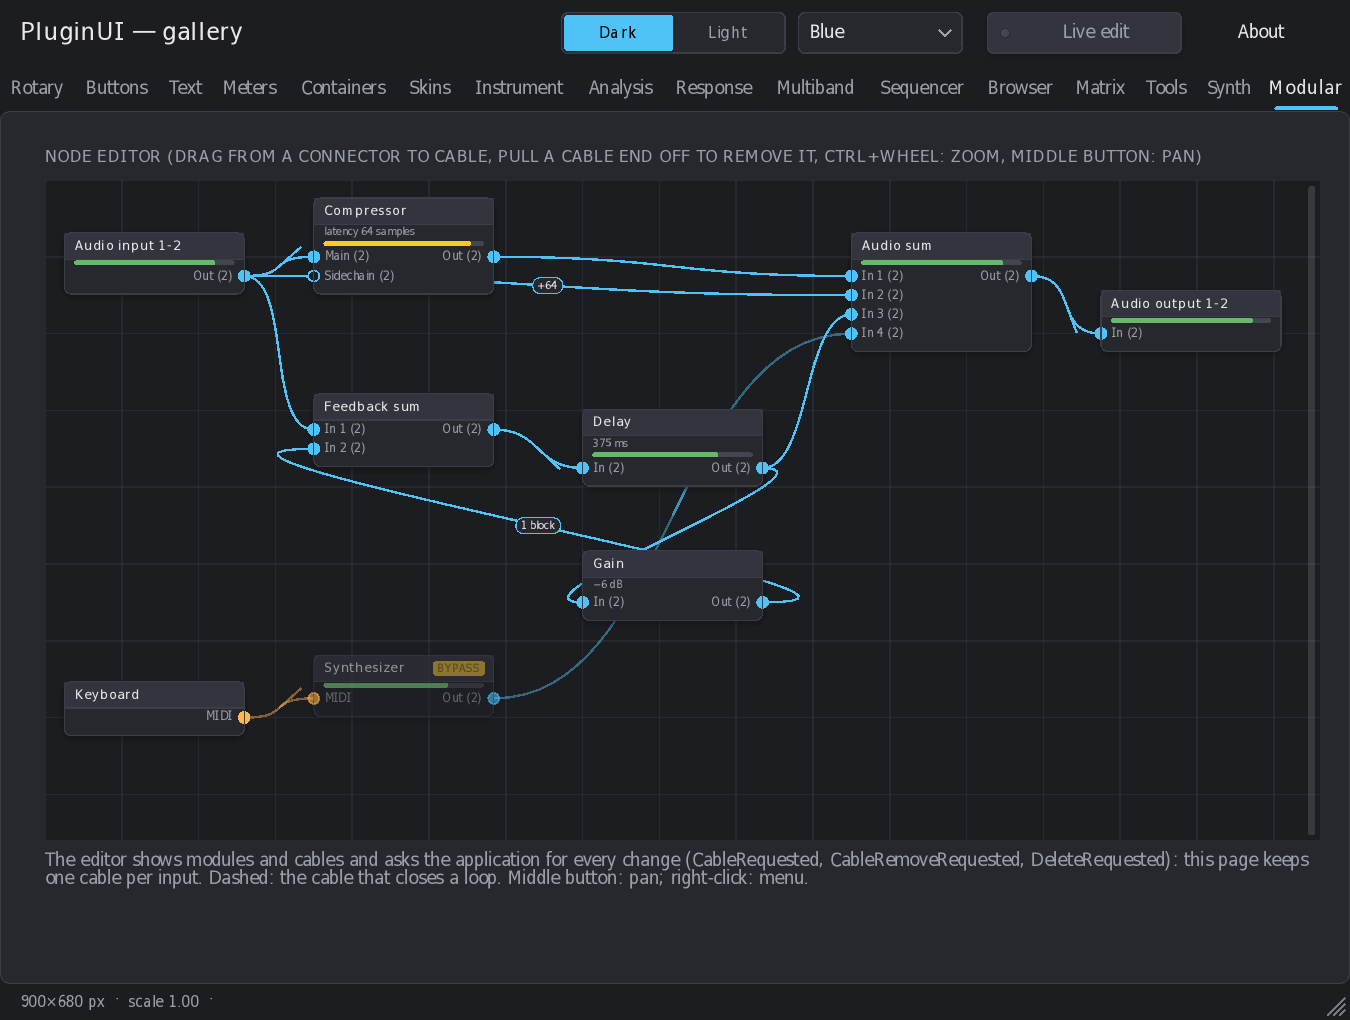
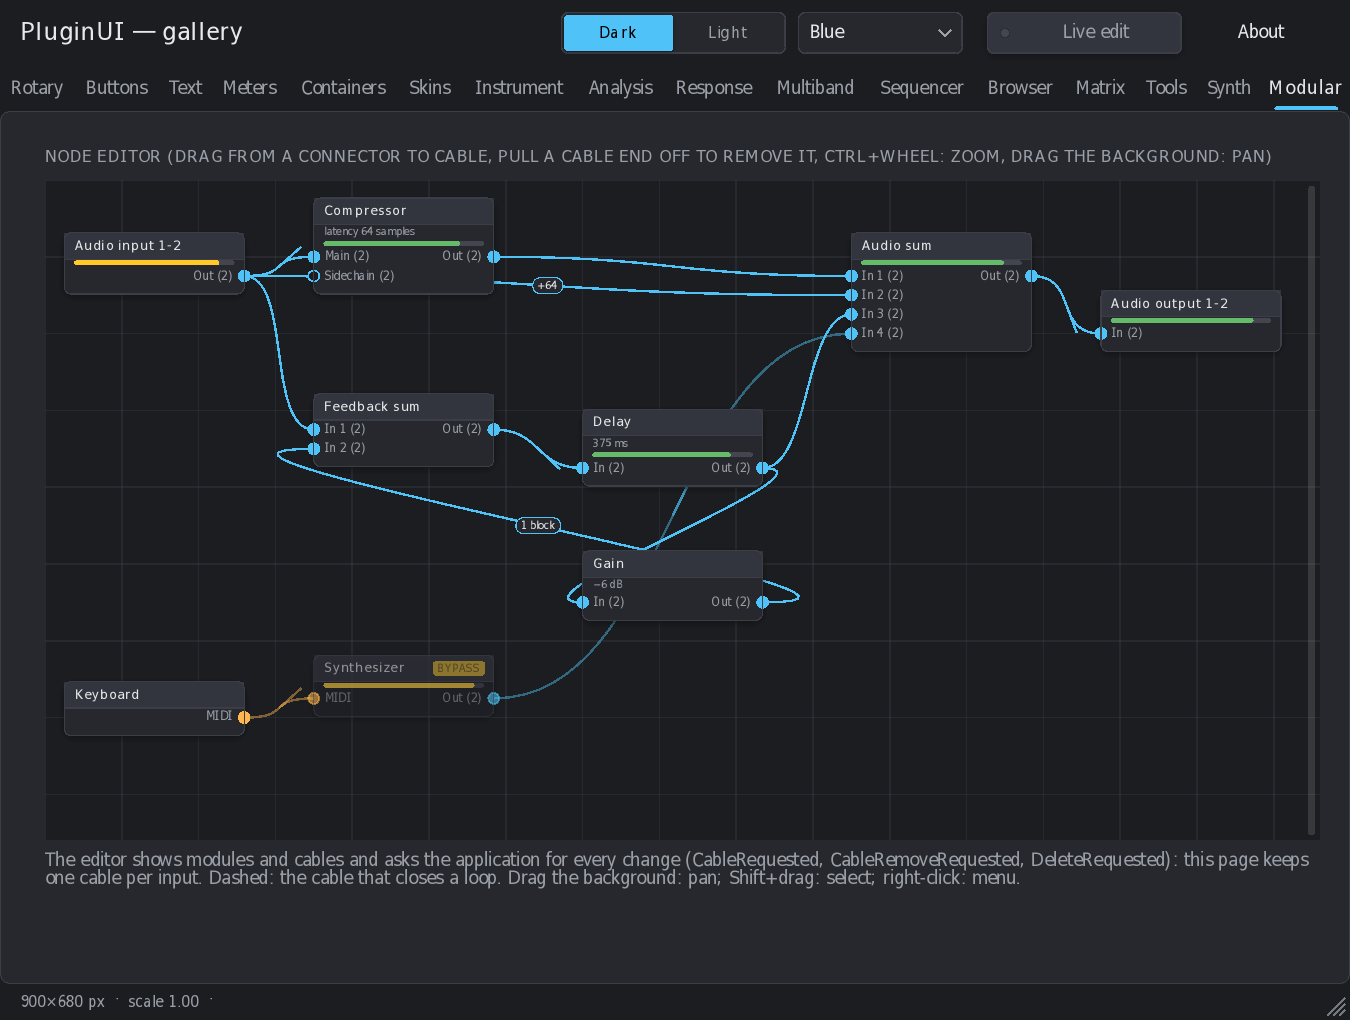
NodeEditor: dragging an empty place always moves the view
Dragging the background with the left button now moves the view whether
the graph fits or not; Shift + drag selects with a rectangle (Ctrl +
drag adds to the selection). Gallery captions, docs and image updated.

Claude-Session: https://claude.ai/code/session_01FvvQE8sPXtbpejVhRebVBN

diff --git a/src/PluginUI/Controls/Misc/NodeEditor.cs b/src/PluginUI/Controls/Misc/NodeEditor.cs
@@ -1,4 +1,4 @@
-// 2026/11/08 13:40:00 UTC - PluginUI
+// 2026/11/08 13:42:00 UTC - PluginUI
 // SPDX-FileCopyrightText: 2026 asm8086
 // SPDX-License-Identifier: MIT
 
@@ -202,9 +202,9 @@ public sealed class NodeEditorMenuEventArgs : EventArgs
 /// update the lists and call <see cref="UIElement.InvalidateVisual"/>.</para>
 /// <para><b>Mouse.</b> Drag a node to move it (its selection with it); drag from a connector to draw a cable to a
 /// compatible connector (they light up); drag the end of a cable away from its input to move or remove it. Click a cable
-/// to select it. Drag on an empty area to select with a rectangle (Ctrl adds); when the graph does not fit (scroll bars
-/// shown), that drag moves the view instead and Shift or Ctrl + drag selects. The wheel scrolls (Shift: sideways),
-/// Ctrl+wheel zooms around the mouse; the middle button (or Alt with the left one) pans. Double-click a node to open it; right-click for its menu.</para>
+/// to select it. Drag on an empty area to move the view; Shift + drag selects with a rectangle (Ctrl + drag adds to the
+/// selection). Scroll bars appear when the graph does not fit. The wheel scrolls (Shift: sideways),
+/// Ctrl+wheel zooms around the mouse; the middle button (or Alt with the left one) also pans. Double-click a node to open it; right-click for its menu.</para>
 /// <para><b>Keyboard.</b> Ctrl+Left / Ctrl+Right select the previous or next node (left to right), Ctrl+A all; arrows
 /// move the selection (Shift = farther); Enter opens the node; Delete removes the selection; Home fits the graph in the
 /// view, + and − zoom; Shift+F10 or the Menu key opens the menu of the selection.</para>
@@ -971,10 +971,9 @@ public class NodeEditor : Control
             _selectedCable = null;
             OnSelectionChanged();
         }
-        UpdateBars();
-        if ((_hbar.IsNeeded || _vbar.IsNeeded) && !e.Shift && !e.Control)
+        if (!e.Shift && !e.Control)
         {
-            // The graph does not fit: dragging an empty place moves the view (Shift or Ctrl + drag selects).
+            // Dragging an empty place moves the view; Shift or Ctrl + drag selects with a rectangle.
             _drag = DragMode.Pan;
             _panOffset = _offset;
             Cursor = StandardCursor.SizeAll;

diff --git a/samples/PluginUI.Gallery/Pages/ModularPage.cs b/samples/PluginUI.Gallery/Pages/ModularPage.cs
@@ -1,4 +1,4 @@
-// 2026/11/08 13:07:00 UTC - PluginUI
+// 2026/11/08 13:42:00 UTC - PluginUI
 // SPDX-FileCopyrightText: 2026 asm8086
 // SPDX-License-Identifier: MIT
 
@@ -10,7 +10,7 @@ internal static class ModularPage
     public static UIElement Build(DemoAudio audio)
     {
         var c = new Canvas();
-        c.Caption(L.T("NODE EDITOR (DRAG FROM A CONNECTOR TO CABLE, PULL A CABLE END OFF TO REMOVE IT, CTRL+WHEEL: ZOOM, MIDDLE BUTTON: PAN)",
+        c.Caption(L.T("NODE EDITOR (DRAG FROM A CONNECTOR TO CABLE, PULL A CABLE END OFF TO REMOVE IT, CTRL+WHEEL: ZOOM, DRAG THE BACKGROUND: PAN)",
                       "ÉDITEUR DE MODULES (GLISSER D'UN CONNECTEUR : CÂBLER, ÉCARTER UN BOUT DE CÂBLE : L'ENLEVER, CTRL+MOLETTE : ZOOM)"), 20, 12, 850);
         var editor = c.At(new NodeEditor
         {
@@ -110,9 +110,9 @@ internal static class ModularPage
         };
 
         c.At(new Label(L.T("The editor shows modules and cables and asks the application for every change (CableRequested, CableRemoveRequested, " +
-                           "DeleteRequested): this page keeps one cable per input. Dashed: the cable that closes a loop. Middle button: pan; right-click: menu.",
+                           "DeleteRequested): this page keeps one cable per input. Dashed: the cable that closes a loop. Drag the background: pan; Shift+drag: select; right-click: menu.",
                            "L'éditeur affiche modules et câbles et demande chaque modification à l'application (CableRequested, CableRemoveRequested, " +
-                           "DeleteRequested) : cette page garde un câble par entrée. En pointillés : le câble qui ferme une boucle. Bouton du milieu : déplacer la vue ; clic droit : menu."))
+                           "DeleteRequested) : cette page garde un câble par entrée. En pointillés : le câble qui ferme une boucle. Glisser le fond : déplacer la vue ; Maj+glisser : sélectionner ; clic droit : menu."))
         { Wrap = true, IsDim = true }, 20, 484, 850, 40);
         _ = audio;
         return c;

diff --git a/tests/PluginUI.Tests/NodeEditorTests.cs b/tests/PluginUI.Tests/NodeEditorTests.cs
@@ -1,4 +1,4 @@
-// 2026/11/08 13:40:00 UTC - PluginUI
+// 2026/11/08 13:42:00 UTC - PluginUI
 // SPDX-FileCopyrightText: 2026 asm8086
 // SPDX-License-Identifier: MIT
 
@@ -125,8 +125,8 @@ public class NodeEditorTests
         Click(Header(_output), count: 2);
         Assert.That(opened, Is.SameAs(_output));
 
-        Drag(_editor.FromGraph(new Point(10f, 150f)), _editor.FromGraph(new Point(700f, 400f)));
-        Assert.That(_editor.SelectedNodes, Is.EqualTo(new[] { _keys }), "the rectangle selects what it touches");
+        Drag(_editor.FromGraph(new Point(10f, 150f)), _editor.FromGraph(new Point(700f, 400f)), ModifierKeys.Shift);
+        Assert.That(_editor.SelectedNodes, Is.EqualTo(new[] { _keys }), "Shift + drag: the rectangle selects what it touches");
         Assert.That(selections, Is.GreaterThan(3));
     }
 
@@ -256,10 +256,9 @@ public class NodeEditorTests
     }
 
     [Test]
-    public void DraggingAnEmptyPlaceMovesTheViewWhenTheGraphDoesNotFit()
+    public void DraggingAnEmptyPlaceMovesTheView()
     {
-        Node("Far", 1600, 900, [new("in", "In")], []);
-        Assert.That(_editor.IsScrollable, Is.EqualTo((true, true)));
+        Assert.That(_editor.IsScrollable, Is.EqualTo((false, false)), "whether the graph fits or not");
         var empty = new Point(400f, 400f);
         var grabbed = _editor.ToGraph(empty);
         Drag(empty, new Point(300f, 350f));

diff --git a/docs/CONTROLS_FR.md b/docs/CONTROLS_FR.md
@@ -1,4 +1,4 @@
-<!-- 2026/11/08 13:40:00 UTC - PluginUI -->
+<!-- 2026/11/08 13:42:00 UTC - PluginUI -->
 
 # Catalogue des éléments
 
@@ -43,7 +43,7 @@ Versions de référence des équivalents : **VSTGUI 4.15.1** (SDK VST 3 3.8.1) e
 | `StepSequencer` | Valeurs par pas (dessin interpolé) + portes, longueur active, groupes de temps, pas joué, liaison à un paramètre par pas (un geste par paramètre touché) | — (bonus) |
 | `ModulationMatrix`, `ModulationSlot`, `ModulationTarget` | Matrice de modulation : une ligne par emplacement avec marche / arrêt, menus de source et de destination (destinations groupées en sous-menus), intensité bipolaire glissée à la souris (Maj fin, double-clic 0), suppression ; les sources déposées depuis un `ModulationSourceButton` ajoutent un emplacement ou remplacent une source ; intensité et marche / arrêt liables à des paramètres ; clavier (flèches par cellule, Entrée / Espace, Page préc. / suiv. ou + / −, Inser, Suppr) | — (bonus) |
 | `RoutingMatrix` | Grille de routage entrées × sorties (routeur de canaux, connecteur de broches, baie de brassage) : clic ou glisser sur les croisements, `RoutingMode` Free / OneInputPerOutput / OneOutputPerInput, libellés de colonnes tournés quand ils sont étroits, croisements liables à des paramètres (`ParameterOf`) ; flèches et Espace ; une case à cocher par croisement pour les lecteurs d'écran | — (bonus) |
-| `NodeEditor`, `NodeEditorNode`, `NodeEditorPort`, `NodeEditorCable` | Éditeur de graphe modulaire (hôte modulaire, baie de brassage, flux du signal) : modules à en-tête titré, entrées à gauche et sorties à droite (couleurs par type, nombre de canaux), câbles en courbes (en pointillés pour le retour d'une boucle, avec une étiquette), badges, modules estompés ou en échec, indicateurs de niveau en direct ; câbles tirés depuis l'un ou l'autre bout, bouts écartés pour les déplacer ou les enlever, seuls les connecteurs compatibles s'allument (`CanConnect`) ; déplacements sur une grille qui porte le premier connecteur de chaque module (les modules alignés ont des câbles droits, `Snap`), sélection au rectangle et Ctrl+clic, barres de défilement quand le graphe dépasse (glisser sur un endroit vide déplace alors la vue, Maj+glisser sélectionne), molette pour faire défiler (Maj : de côté), Ctrl+molette pour zoomer autour de la souris, déplacement de la vue au bouton du milieu, `ZoomToFit` ; chaque modification est une demande à l'application (`CableRequested`, `CableRemoveRequested`, `DeleteRequested`, `NodeOpened`, `ContextMenuOpening`) ; clavier (Ctrl+flèches pour sélectionner, flèches pour déplacer, Entrée, Suppr, Origine, + / −, Maj+F10) ; les lecteurs d'écran annoncent le module sélectionné et ses câbles | — (bonus) |
+| `NodeEditor`, `NodeEditorNode`, `NodeEditorPort`, `NodeEditorCable` | Éditeur de graphe modulaire (hôte modulaire, baie de brassage, flux du signal) : modules à en-tête titré, entrées à gauche et sorties à droite (couleurs par type, nombre de canaux), câbles en courbes (en pointillés pour le retour d'une boucle, avec une étiquette), badges, modules estompés ou en échec, indicateurs de niveau en direct ; câbles tirés depuis l'un ou l'autre bout, bouts écartés pour les déplacer ou les enlever, seuls les connecteurs compatibles s'allument (`CanConnect`) ; déplacements sur une grille qui porte le premier connecteur de chaque module (les modules alignés ont des câbles droits, `Snap`), glisser sur un endroit vide pour déplacer la vue, Maj+glisser pour sélectionner au rectangle, sélection par Ctrl+clic, barres de défilement quand le graphe dépasse, molette pour faire défiler (Maj : de côté), Ctrl+molette pour zoomer autour de la souris, déplacement de la vue au bouton du milieu, `ZoomToFit` ; chaque modification est une demande à l'application (`CableRequested`, `CableRemoveRequested`, `DeleteRequested`, `NodeOpened`, `ContextMenuOpening`) ; clavier (Ctrl+flèches pour sélectionner, flèches pour déplacer, Entrée, Suppr, Origine, + / −, Maj+F10) ; les lecteurs d'écran annoncent le module sélectionné et ses câbles | — (bonus) |
 | `ModulationSourceButton` | Pastille de source de modulation à glisser sur un contrôle qui accepte la modulation (`AcceptsModulation`, événement `ModulationDropped`) | — (bonus, façon Serum / Vital) |
 
 ## Menus

diff --git a/docs/CONTROLS.md b/docs/CONTROLS.md
@@ -1,4 +1,4 @@
-<!-- 2026/11/08 13:40:00 UTC - PluginUI -->
+<!-- 2026/11/08 13:42:00 UTC - PluginUI -->
 
 # Element catalog
 
@@ -43,7 +43,7 @@ Reference versions for the equivalents: **VSTGUI 4.15.1** (VST 3 SDK 3.8.1) and 
 | `StepSequencer` | Per-step values (interpolated drawing) + gates, active length, beat groups, playing step, binding to one parameter per step (one gesture per parameter touched) | — (bonus) |
 | `ModulationMatrix`, `ModulationSlot`, `ModulationTarget` | Modulation matrix: one row per slot with on / off, source and target menus (targets grouped in sub-menus), bipolar amount dragged with the mouse (Shift fine, double-click 0), delete; sources dropped from a `ModulationSourceButton` add a slot or replace a source; amount and on / off bindable to parameters; keyboard (arrows by cell, Enter / Space, Page Up / Down or + / −, Insert, Delete) | — (bonus) |
 | `RoutingMatrix` | Routing grid of inputs × outputs (channel router, pin connector, patch bay): click or drag across crossings, `RoutingMode` Free / OneInputPerOutput / OneOutputPerInput, column labels turned when narrow, crossings bindable to parameters (`ParameterOf`); arrows and Space; one check box per crossing for screen readers | — (bonus) |
-| `NodeEditor`, `NodeEditorNode`, `NodeEditorPort`, `NodeEditorCable` | Modular graph editor (modular host, patch bay, signal flow): nodes with titled headers, inputs on the left and outputs on the right (type colors, channel counts), cables drawn as curves (dashed for loop feedback, with a label), badges, dimmed and failed nodes, live level meters; cables drawn from either end, ends pulled off to move or remove them, only compatible connectors light up (`CanConnect`); moves on a grid that holds the first connector of each node (aligned nodes get straight cables, `Snap`), rectangle and Ctrl+click selection, scroll bars when the graph does not fit (then dragging an empty place moves the view, Shift+drag selects), wheel to scroll (Shift sideways), Ctrl+wheel to zoom around the mouse, pan with the middle button, `ZoomToFit`; every change is a request to the application (`CableRequested`, `CableRemoveRequested`, `DeleteRequested`, `NodeOpened`, `ContextMenuOpening`); keyboard (Ctrl+arrows to select, arrows to move, Enter, Delete, Home, + / −, Shift+F10); screen readers hear the selected node and its cables | — (bonus) |
+| `NodeEditor`, `NodeEditorNode`, `NodeEditorPort`, `NodeEditorCable` | Modular graph editor (modular host, patch bay, signal flow): nodes with titled headers, inputs on the left and outputs on the right (type colors, channel counts), cables drawn as curves (dashed for loop feedback, with a label), badges, dimmed and failed nodes, live level meters; cables drawn from either end, ends pulled off to move or remove them, only compatible connectors light up (`CanConnect`); moves on a grid that holds the first connector of each node (aligned nodes get straight cables, `Snap`), drag an empty place to move the view, Shift+drag for a rectangle selection, Ctrl+click selection, scroll bars when the graph does not fit, wheel to scroll (Shift sideways), Ctrl+wheel to zoom around the mouse, pan with the middle button, `ZoomToFit`; every change is a request to the application (`CableRequested`, `CableRemoveRequested`, `DeleteRequested`, `NodeOpened`, `ContextMenuOpening`); keyboard (Ctrl+arrows to select, arrows to move, Enter, Delete, Home, + / −, Shift+F10); screen readers hear the selected node and its cables | — (bonus) |
 | `ModulationSourceButton` | Modulation source chip to drag onto a control that accepts modulation (`AcceptsModulation`, `ModulationDropped` event) | — (bonus, Serum / Vital style) |
 
 ## Menus

diff --git a/CHANGELOG.md b/CHANGELOG.md
@@ -26,7 +26,7 @@ Before 1.0, minor versions may contain breaking changes.
   inputs on the left and outputs on the right, cables drawn as curves (dashed with a label for loop feedback), badges,
   dimmed or failed nodes, live level meters; cables drawn from either end, ends pulled off to move or remove them,
   compatible connectors lit (`CanConnect`); moves on a grid that holds each node's first connector (straight cables between aligned nodes),
-  rectangle selection, scroll bars (dragging an empty place then moves the view), wheel scrolling,
+  dragging an empty place to move the view, Shift+drag rectangle selection, scroll bars, wheel scrolling,
   Ctrl+wheel zoom around the mouse, middle-button pan, `ZoomToFit`; every change is a request (`CableRequested`, `CableRemoveRequested`, `DeleteRequested`,
   `NodeOpened`, `ContextMenuOpening`); full keyboard control and a screen reader peer. Registered in the designer and
   shown on the new Modular page of the gallery. Texts `UIStrings.AutomationNodeEditor`, `NodeInputsFormat`,
